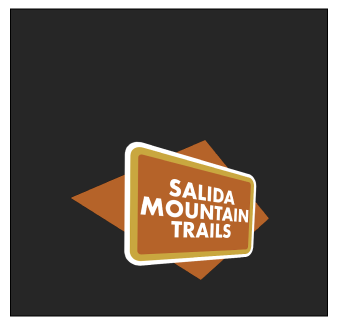
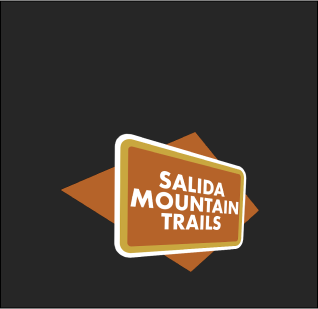
fixed css and images for work page alignment quirks

Changed region(s): [[0.0, 0.0, 1.0, 1.0], [0.1981, 0.4078, 0.8208, 0.8738], [0.2547, 0.5534, 0.3113, 0.5825]]

diff --git a/css/style.css b/css/style.css
@@ -186,6 +186,7 @@ font-weight: 250;
   text-align: center;
   background-repeat: no-repeat;
   background-size: cover;
+  margin: 10px;
   
 }
 
@@ -198,7 +199,7 @@ font-weight: 250;
   text-align: center;
   background-repeat: no-repeat;
   background-size: cover;
-  margin-left: 10px;
+  margin: 10px;
 }
 
 .workLink3 {
@@ -210,7 +211,7 @@ font-weight: 250;
   text-align: center;
   background-repeat: no-repeat;
   background-size: cover;
-  margin-left: 10px;
+  margin: 10px;
 }
 span {
  text-align: center;
